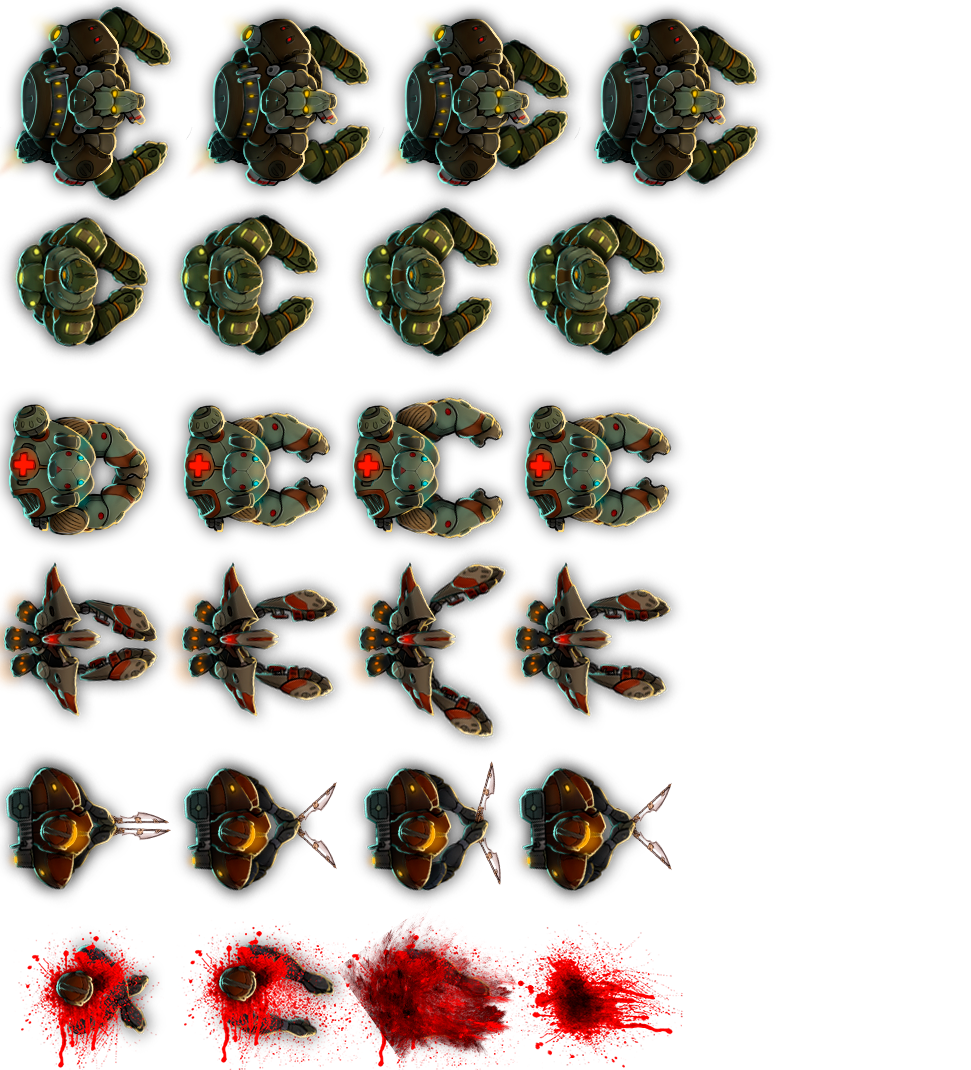
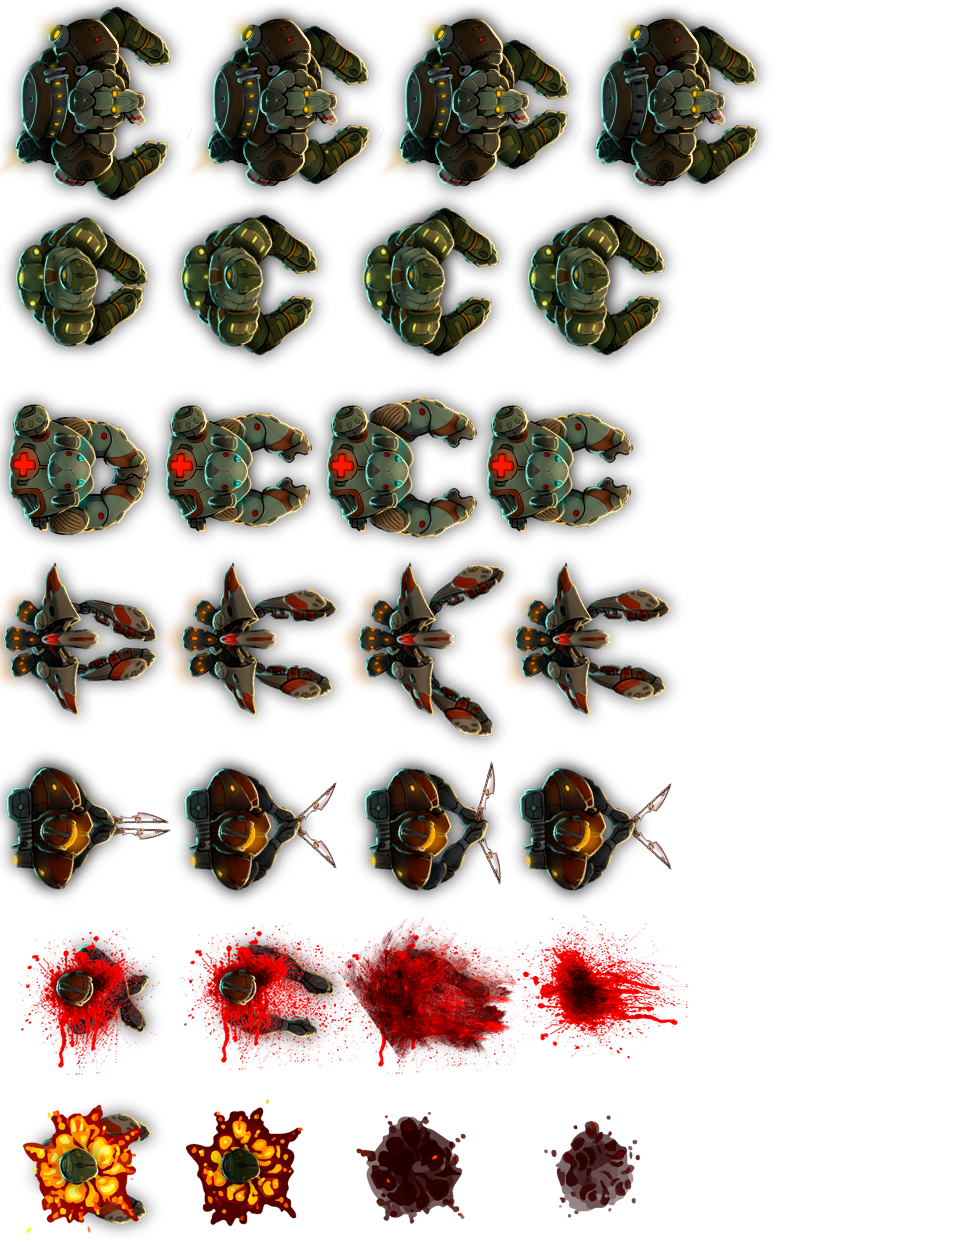
200423

diff --git a/Monster.cpp b/Monster.cpp
@@ -2,6 +2,8 @@
 
 Monster::Monster()
 {
+	auto& d2 = m_AnimPlayer.CreateAnimation("d2", "graphics/mon4.png", sf::seconds(0.5), false);
+	d2.AddFrames(sf::Vector2i(0, 1098), sf::Vector2i(170, 140), 4, 1);
 	auto& d1 = m_AnimPlayer.CreateAnimation("d1", "graphics/mon4.png", sf::seconds(0.5), false);
 	d1.AddFrames(sf::Vector2i(0, 928), sf::Vector2i(170, 140), 4, 1);
 	auto& mon1 = m_AnimPlayer.CreateAnimation("mon1", "graphics/mon4.png", sf::seconds(0.5), true);
@@ -9,11 +11,12 @@ Monster::Monster()
 	auto& mon2 = m_AnimPlayer.CreateAnimation("mon2", "graphics/mon4.png", sf::seconds(1), true);
 	mon2.AddFrames(sf::Vector2i(0, 556), sf::Vector2i(170, 185), 4, 1);
 	auto& mon3 = m_AnimPlayer.CreateAnimation("mon3", "graphics/mon4.png", sf::seconds(1), true);
-	mon3.AddFrames(sf::Vector2i(0, 391), sf::Vector2i(170, 160), 4, 1);
+	mon3.AddFrames(sf::Vector2i(0, 390), sf::Vector2i(160, 160), 4, 1);
 	auto& mon4 = m_AnimPlayer.CreateAnimation("mon4", "graphics/mon4.png", sf::seconds(1), true);
 	mon4.AddFrames(sf::Vector2i(0, 210), sf::Vector2i(170, 160), 4, 1);
 	auto& mon5 = m_AnimPlayer.CreateAnimation("mon5", "graphics/mon4.png", sf::seconds(1), true);
 	mon5.AddFrames(sf::Vector2i(0, 0), sf::Vector2i(195, 206), 4, 1);
+	m_Sprite.setOrigin(m_Sprite.getGlobalBounds().width/2, m_Sprite.getGlobalBounds().height/2);	
 }
 
 void Monster::spawn(float startX, float startY, int type)
@@ -79,7 +82,11 @@ bool Monster::hit()
 	if (m_Health <= 0)
 	{
 		// dead
-		if (m_AnimPlayer.GetCurrentAnimationName() != "d1") m_AnimPlayer.SwitchAnimation("d1");
+		if (m_AnimPlayer.GetCurrentAnimationName() == "mon2" || m_AnimPlayer.GetCurrentAnimationName() == "mon3")
+		{if (m_AnimPlayer.GetCurrentAnimationName() != "d2") m_AnimPlayer.SwitchAnimation("d2");}
+		else 
+		{if (m_AnimPlayer.GetCurrentAnimationName() != "d1") m_AnimPlayer.SwitchAnimation("d1");}
+		
 		return true;
 	}
 	// injured but not dead yet
@@ -92,7 +99,10 @@ bool Monster::isAlive()
 }
 sf::FloatRect Monster::getPosition()
 {
-	return m_Sprite.getGlobalBounds();
+	auto myGlobalBounds = sf::FloatRect(m_Sprite.getGlobalBounds().left+40,
+	m_Sprite.getGlobalBounds().top+40, m_Sprite.getGlobalBounds().width-80, m_Sprite.getGlobalBounds().height - 80);
+	
+	return myGlobalBounds;
 }
 sf::Sprite Monster::getSprite()
 {

diff --git a/Pickup.cpp b/Pickup.cpp
@@ -13,7 +13,7 @@ Pickup::Pickup(int type)
 	}
 	else
 	{
-		m_Sprite = Sprite(AssetManager::GetTexture("graphics/ammo.png"));
+		m_Sprite = Sprite(AssetManager::GetTexture("graphics/ammo1.png"));
 		// How much is pickup worth
 		m_Value = AMMO_START_VALUE;
 	}
